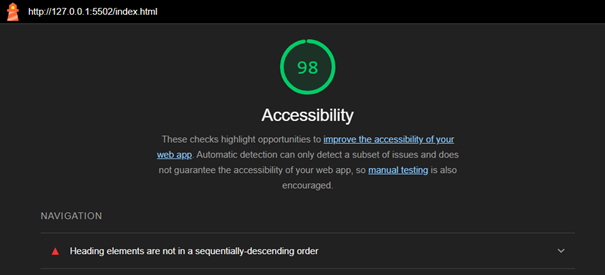
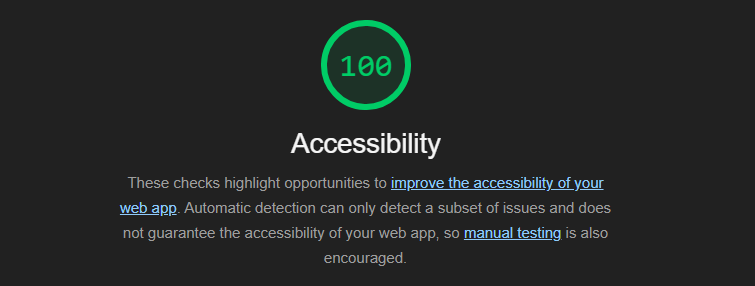
så over accessibility

diff --git a/OtherSites/GitSamarbeid.html b/OtherSites/GitSamarbeid.html
@@ -1,5 +1,5 @@
 <!DOCTYPE html>
-<html lang="en">
+<html lang="nb">
 <head>
     <meta charset="UTF-8">
     <meta name="viewport" content="width=device-width, initial-scale=1.0">
@@ -30,13 +30,13 @@
     </header>
 
     <main>
-        <img class="firstpicture" src="../images/github1.png" alt="">
+        <img class="firstpicture" src="../images/github1.png" alt="første bilde">
         <h1>
             Slik har vi brukt GitHub for å samarbeide
         </h1>
 
         <article class ="container">
-            <div><img src="../images/gitbranches.png" alt=""><img></div>
+            <img src="../images/gitbranches.png" alt="våre git-branch">
 
             <section>
                 <p>
@@ -44,9 +44,7 @@
                 </p>
             </section>
 
-            <div>
-                <img src="../images/commitEks.png" alt="">
-            </div>
+            <img src="../images/commitEks.png" alt="Kommit eksempel">
 
             <section>
                 <p>
@@ -64,8 +62,8 @@
                 GitHub gir oss muligheten til å danne, redigere og oppdatere et prosjekt sammen på kun en fil. Vi kan gjøre regelmessige endrigner uten å frykte for at noe går galt med opplastning eller nedlastningen av filen som fører til at vi mister arbeid. Det er også veldig mye enklere å synkronisere prosjektet med github enn det hadde vært å måtte gjøre det manuelt. I bildene under kan du se eksempler på hvordan vi har brukt GitHub til å gjøre felles endringer
             </p>
             <div class ="git_bilder">
-                <img src="../images/commithistorie.png">
-                <img src="../images/Eksempler2.png">
+                <img src="../images/commithistorie.png" alt="Kommit historien">
+                <img src="../images/Eksempler2.png" alt="Eksempler (nummer 2)">
             </div>
         </article>
 

diff --git a/OtherSites/Accessibility.html b/OtherSites/Accessibility.html
@@ -1,5 +1,5 @@
 <!DOCTYPE html>
-<html lang="no">
+<html lang="nb">
 <head>
     <meta charset="UTF-8">
     <meta name="viewport" content="width=device-width, initial-scale=1.0">
@@ -110,7 +110,7 @@
             Først reflekterte vi over hvorfor det var feil siden det ikke var åpenbart for oss med det første, men så forstod vi at det generelt er dårlig praksis for nettlesere og brukeropplevelsen å ha en lenke inni en knapp som egentlig ikke gjør noe. 
         </p>
         <p> 
-            Noe valideringen ikke fortalte oss da, var at nettsiden vår ikke var godt tilpasset for tab-indeks. 
+            Noe valideringen ikke fortalte oss da, var at nettsiden vår ikke var godt tilpasset for tab-indeks selv etter å ha fikset på tabindeksene som var større enn 0. 
             Vi hadde originalt satt menyen til display:none med mindre den blir samhandlet med, men da funket det ikke å fokusere på submenyen sine lenker med tab siden de ikke var displayed. 
             Derfor fant vi en litt utradisjonell måte å holde submenyen skjult uten å bruke JavaScript, som var å sette opacity=0 og font-size=0 slik at man ikke kan fokusere på lenkene heller. 
             På denne måten fikk vi beholde nettsiden slik vil ville, og tabindex til å funke bra for nettsiden vår, noe som er viktig for både interaktiviteten og funksjonaliteten for nettsiden. 
@@ -118,7 +118,7 @@
 
         <p> 
             Oppsummert har vi gjort våres beste for å få flest mulig til å kunne bruke nettsiden vår effektivt. 
-            Dette er noen av mange feil vi har rettet opp, og vi har lært masse av de 😊
+            Disse er kun noen av mange feil vi har rettet opp, og vi har lært masse av de 😊
         </p>
     </article>
      

diff --git a/styles/stylesheet.css b/styles/stylesheet.css
@@ -155,13 +155,14 @@ main h2 {
 #accessibility tr:nth-child(even) {
   background-color: #e2dfe3;
 }
+
 #accessibility th:nth-child(2), #accessibility td:nth-child(2) {
   font-weight: bold;
-  color: #bb8600;
+  color: #7a0000;
 }
 #accessibility th:nth-child(3), #accessibility td:nth-child(3) {
   font-weight: bold;
-  color: #9ebd04
+  color: #296600
 }
 
 .studieinfo-div {

diff --git a/OtherSites/Activity.html b/OtherSites/Activity.html
@@ -1,5 +1,5 @@
 <!DOCTYPE html>
-<html lang="en">
+<html lang="nb">
 <head>
     <meta charset="UTF-8">
     <meta name="viewport" content="width=device-width, initial-scale=1.0">

diff --git a/index.html b/index.html
@@ -1,5 +1,5 @@
 <!DOCTYPE html>
-<html lang="no">
+<html lang="nb">
 
 <head>
     <meta charset="UTF-8">
